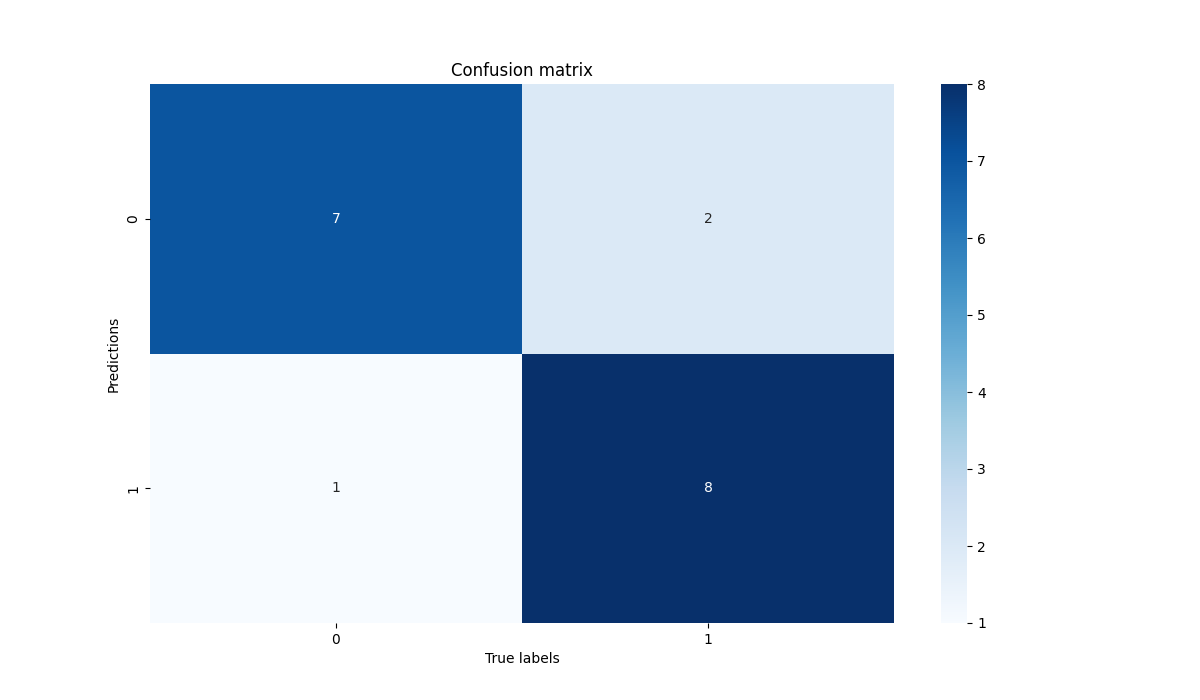
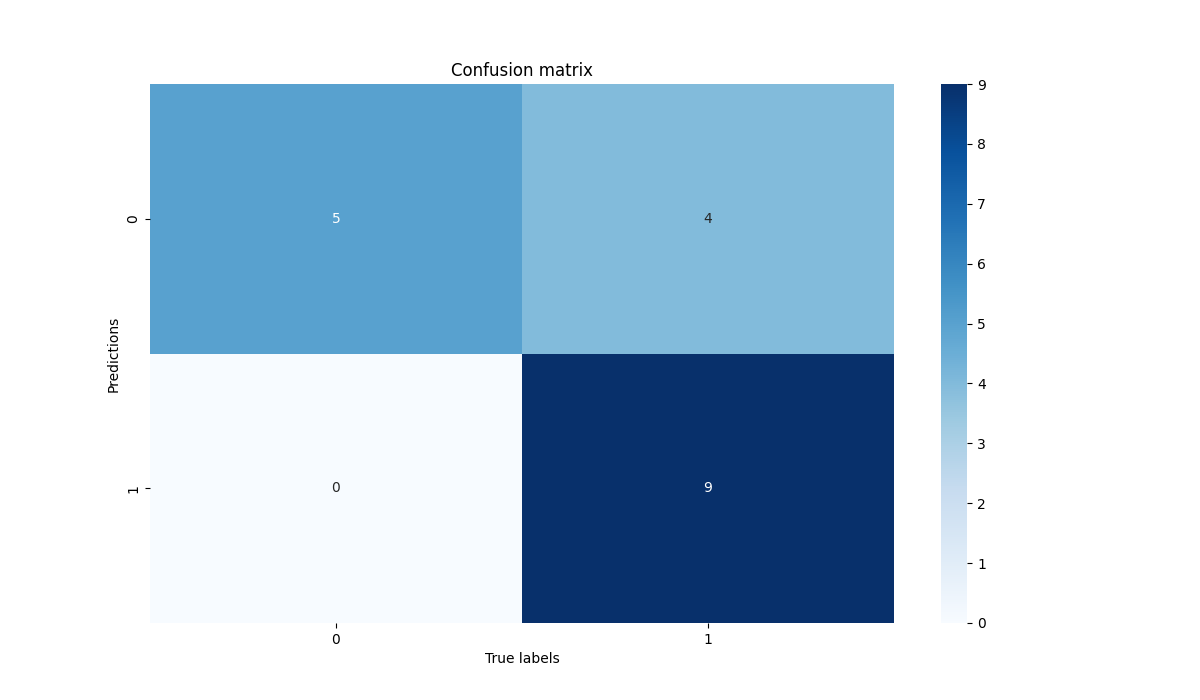
somesolar detection fixes - in progress

Changed region(s): [[0.1233, 0.12, 0.7708, 0.51], [0.8017, 0.54, 0.8325, 0.57]]

diff --git a/src/solar_detection/train_model.py b/src/solar_detection/train_model.py
@@ -15,8 +15,9 @@ def setup_training():
     csv_dataset = load_csv_df(BaseConfig.LOCATION_FIELD_CSV_DIR)
 
     # Paths to training and validation datasets
-    train_dir = BaseConfig.SOLAR_DETECTION_TRAINING_DIR
-    test_dir = BaseConfig.SOLAR_DETECTION_TEST_DIR
+    train_dir = BaseConfig.DATA_DIR + "/cut_out_plots"
+    train_df = csv_dataset.sample(frac=0.8, random_state=42)
+    test_df = csv_dataset.drop(train_df.index)
 
     # Define data transformations
     transform = transforms.Compose(
@@ -32,8 +33,8 @@ def setup_training():
     )
 
     # Load datasets
-    train_dataset = datasets.ImageFolder(root=train_dir, transform=transform)
-    test_dataset = datasets.ImageFolder(root=test_dir, transform=transform)
+    train_dataset = SolarPanelDataset(train_df, train_dir, transform=transform)
+    test_dataset = SolarPanelDataset(test_df, train_dir, transform=transform)
 
     train_loader = DataLoader(train_dataset, batch_size=32, shuffle=True)
     test_loader = DataLoader(test_dataset, batch_size=32, shuffle=False)
@@ -57,14 +58,16 @@ def setup_training():
 
 
 def train_model(
-    model, device, train_loader, test_loader, criterion, optimizer, num_epochs=20
+    model, device: torch.device, train_loader: DataLoader, test_loader: DataLoader, criterion, optimizer, num_epochs=20
 ) -> SolarPanelClassifier:
     for epoch in range(num_epochs):
         model.train()
         train_loss = 0.0
         for images, labels in train_loader:
-            images, labels = images.to(device), labels.to(device).unsqueeze(1)  # Match output shape
-            
+            images, labels = images.to(device), labels.to(device).unsqueeze(
+                1
+            )  # Match output shape
+
             optimizer.zero_grad()
             outputs = model(images)
             loss = criterion(outputs, labels)
@@ -89,8 +92,10 @@ def train_model(
                 correct += (predicted == labels).sum().item()
                 total += labels.size(0)
 
-        print(f"Epoch [{epoch+1}/{num_epochs}], "
-              f"Train Loss: {train_loss/len(train_loader):.4f}, "
-              f"Testing Data Loss: {val_loss/len(test_loader):.4f}, "
-              f"Testing Data Accuracy: {correct/total:.4f}")
+        print(
+            f"Epoch [{epoch+1}/{num_epochs}], "
+            f"Train Loss: {train_loss/len(train_loader):.4f}, "
+            f"Testing Data Loss: {val_loss/len(test_loader):.4f}, "
+            f"Testing Data Accuracy: {correct/total:.4f}"
+        )
     return model

diff --git a/src/utils/model_training.py b/src/utils/model_training.py
@@ -5,7 +5,7 @@ from tqdm import tqdm
 import torch
 
 
-def train_model(train_loader: torch.Tensor, num_epochs: int = 25, save_path: str = None) -> None:
+def train_model(train_loader: torch.Tensor, num_epochs: int = 25, save_path: str | None = None) -> None:
     """
     Trains the model and saves into specified path
 
@@ -13,7 +13,7 @@ def train_model(train_loader: torch.Tensor, num_epochs: int = 25, save_path: str
         train_loader: The training data DataLoader instance
         num_epochs: The number of epochs during training
         save_path: A path to save the model
-    """       
+    """
     model = RoofDetector()
     criterion = nn.BCELoss()
     optimizer = optim.Adam(model.parameters(), lr=0.001)
@@ -26,7 +26,7 @@ def train_model(train_loader: torch.Tensor, num_epochs: int = 25, save_path: str
 
         for data, labels in tqdm(train_loader):
             optimizer.zero_grad()
-            
+
             outputs = model(data)
             loss = criterion(outputs.view(-1), labels.float())
             loss.backward()
@@ -34,7 +34,7 @@ def train_model(train_loader: torch.Tensor, num_epochs: int = 25, save_path: str
 
             running_loss += loss.item()
 
-            predicted = (outputs.squeeze() > 0.5)
+            predicted = outputs.squeeze() > 0.5
             correct += (predicted == labels).sum().item()
             total += labels.size(0)
 
@@ -42,6 +42,6 @@ def train_model(train_loader: torch.Tensor, num_epochs: int = 25, save_path: str
         accuracy = correct / total
 
         print(f"Epoch [{epoch + 1}/{num_epochs}], Loss: {avg_loss:.4f}, Accuracy: {accuracy:.4f}")
-    
+
     if save_path:
         torch.save(model.state_dict(), save_path)

diff --git a/src/solar_detection/classifier.py b/src/solar_detection/classifier.py
@@ -1,4 +1,5 @@
 import os
+import pandas as pd
 import torch
 from torch import nn
 from torch.utils.data import Dataset
@@ -36,7 +37,7 @@ class SolarPanelClassifier(nn.Module):
 
 class SolarPanelDataset(Dataset):
     def __init__(self, dataframe, data_dir, transform=None):
-        self.dataframe = dataframe
+        self.dataframe: pd.DataFrame = dataframe
         self.transform = transform
         self.data_dir = data_dir
 
@@ -44,11 +45,14 @@ class SolarPanelDataset(Dataset):
         return len(self.dataframe)
 
     def __getitem__(self, idx):
-        img_path = os.path.join(self.data_dir, self.dataframe.iloc[idx, 0])
+        img_path = f"{os.path.join(self.data_dir, self.dataframe.iloc[idx, 0]).replace("-", "_", 1)}.png"
         label = self.dataframe.iloc[idx, 1]
         image = Image.open(img_path).convert("RGB")  # Convert to RGB
 
         if self.transform:
             image = self.transform(image)
+
+        if isinstance(label, str):
+            label = float(label)
 
         return image, torch.tensor(label, dtype=torch.float32)

diff --git a/src/pipelines/create_roof_detector.py b/src/pipelines/create_roof_detector.py
@@ -1,7 +1,7 @@
 from src.utils import prepare_train_test_data, train_model
-from config.config import BaseConfig as config
-from src.roofs_detection.test_model import test_model
+from src.roofs_detection.model_testing import model_testing
 from src.roofs_detection.evaluate_model import EvaluateMetrics
+
 
 def roof_detector(csv_file_path: str, potential_roofs_dir: str, num_epochs: int, model_path: str, metrics_dir: str) -> None:
     """
@@ -16,7 +16,7 @@ def roof_detector(csv_file_path: str, potential_roofs_dir: str, num_epochs: int,
     """
     train_loader, test_loader = prepare_train_test_data(csv_file_path, potential_roofs_dir)
     train_model(train_loader, num_epochs=num_epochs, save_path=model_path)
-    predictions, labels = test_model(test_loader, model_path)
+    predictions, labels = model_testing(test_loader, model_path)
     evaluate_metrics = EvaluateMetrics(labels, predictions)
     evaluate_metrics.calculate_accuracy()
     evaluate_metrics.display_conf_matrix(metrics_dir)

diff --git a/src/utils/utils.py b/src/utils/utils.py
@@ -6,6 +6,7 @@ import torch
 from src.api.operations import DirectoryOperations, MapOperations, GSOperations
 from src.datatypes import Image
 
+
 def plot(
     field_ids: List[str | int],
     csv_file: str = "",
@@ -57,7 +58,9 @@ def get_torch_device() -> torch.device:
 def load_csv_df(csv_file: str, header: int | List[Any] | None = None) -> pd.DataFrame:
     return pd.read_csv(csv_file, skipinitialspace=True, header=header)
 
+
 def upload_csv_file(csv_file: str, images_params: List[Image]) -> None:
     plot_names = [image_param.new_name[:-4] for image_param in images_params]
     df = pd.DataFrame(plot_names, columns=["plot_id"])
     df.to_csv(csv_file, index=False)
+    logging.info("Successfully saved the csv file: %s", csv_file)

diff --git a/src/roofs_detection/evaluate_model.py b/src/roofs_detection/evaluate_model.py
@@ -1,8 +1,8 @@
-from sklearn.metrics import confusion_matrix, accuracy_score
+import logging
 from typing import List
+from sklearn.metrics import confusion_matrix, accuracy_score
 import seaborn as sns
 import matplotlib.pyplot as plt
-import logging
 
 class EvaluateMetrics:
     """
@@ -22,7 +22,7 @@ class EvaluateMetrics:
         Calculates accuracy score and display the value
         """
         accuracy = accuracy_score(self.labels, self.predictions)
-        logging.info(f"Test Accuracy: {accuracy:.4f}")
+        logging.info("Test Accuracy: %.4f", accuracy)
 
     def display_conf_matrix(self, dir_path: str) -> None:
         """

diff --git a/create_roof_detector.py b/create_roof_detector.py
@@ -1,4 +1,4 @@
-from pipelines.create_roof_detector import roof_detector
+from src.pipelines.create_roof_detector import roof_detector
 from config.config import BaseConfig as config
 
 if __name__ == "__main__":
@@ -9,5 +9,3 @@ if __name__ == "__main__":
         model_path=config.ROOF_MODEL, 
         metrics_dir=config.ROOF_METRICS_DIR
         )
-
-

diff --git a/depth_main.py b/depth_main.py
@@ -1,8 +1,4 @@
-import os
-from src.solar_detection.train_model import setup_training
-from src.pipelines.depth_pipeline import process_image
-from src.processing.depth_processing.depth_processing import depth_run
-from src.utils import plot, upload_to_gs
+from src.pipelines.depth_pipeline import depth_run
 from config import BaseConfig as Config
 
 

diff --git a/train_solar_detection.py b/train_solar_detection.py
@@ -1,0 +1,4 @@
+from src.solar_detection.train_model import setup_training
+
+if __name__ == "__main__":
+    setup_training()
